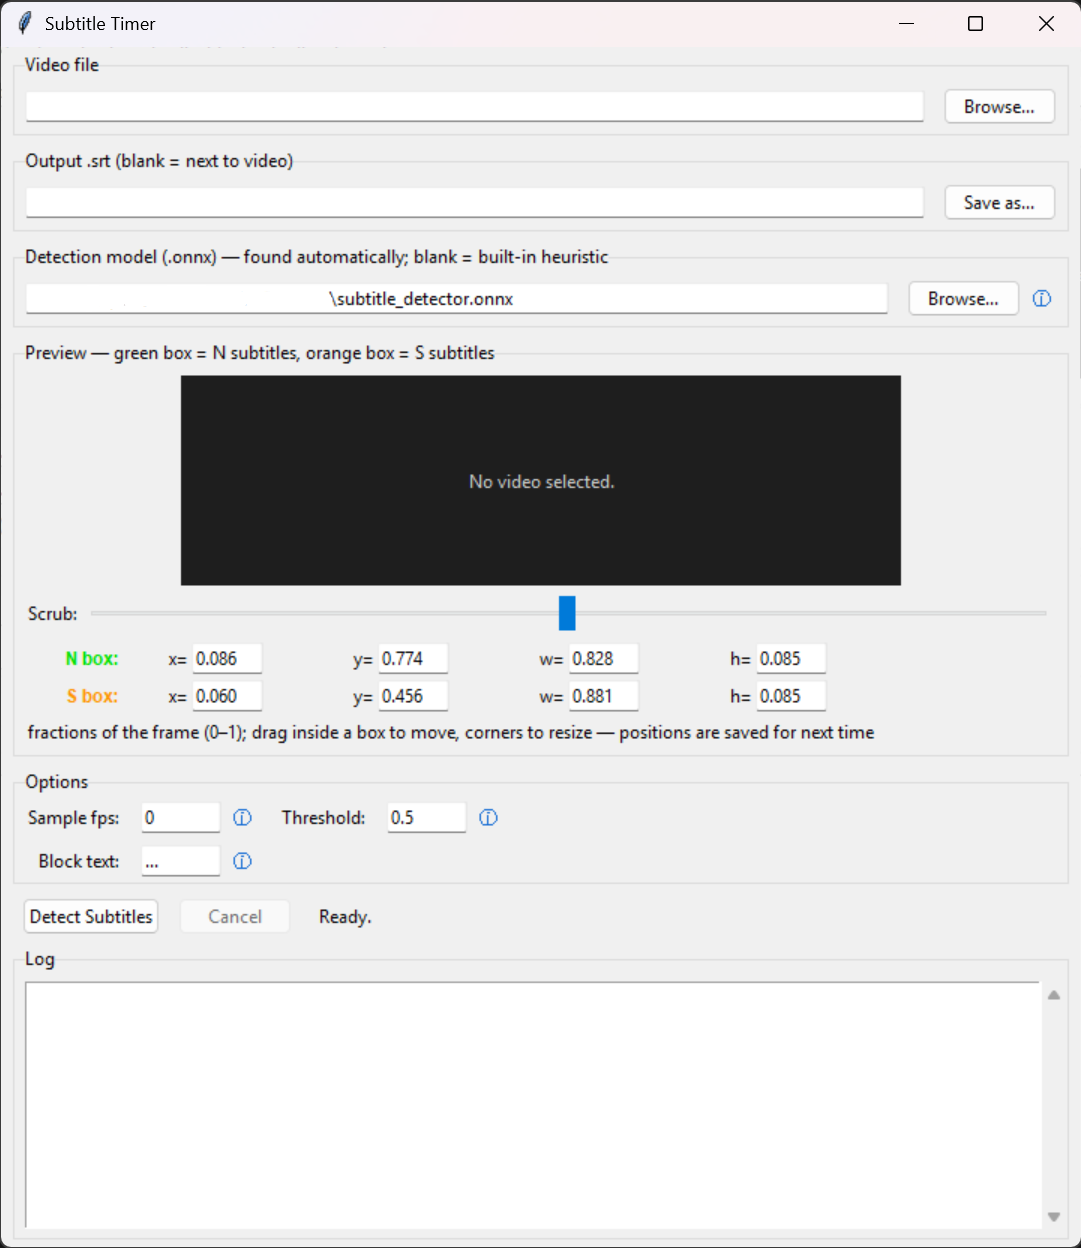
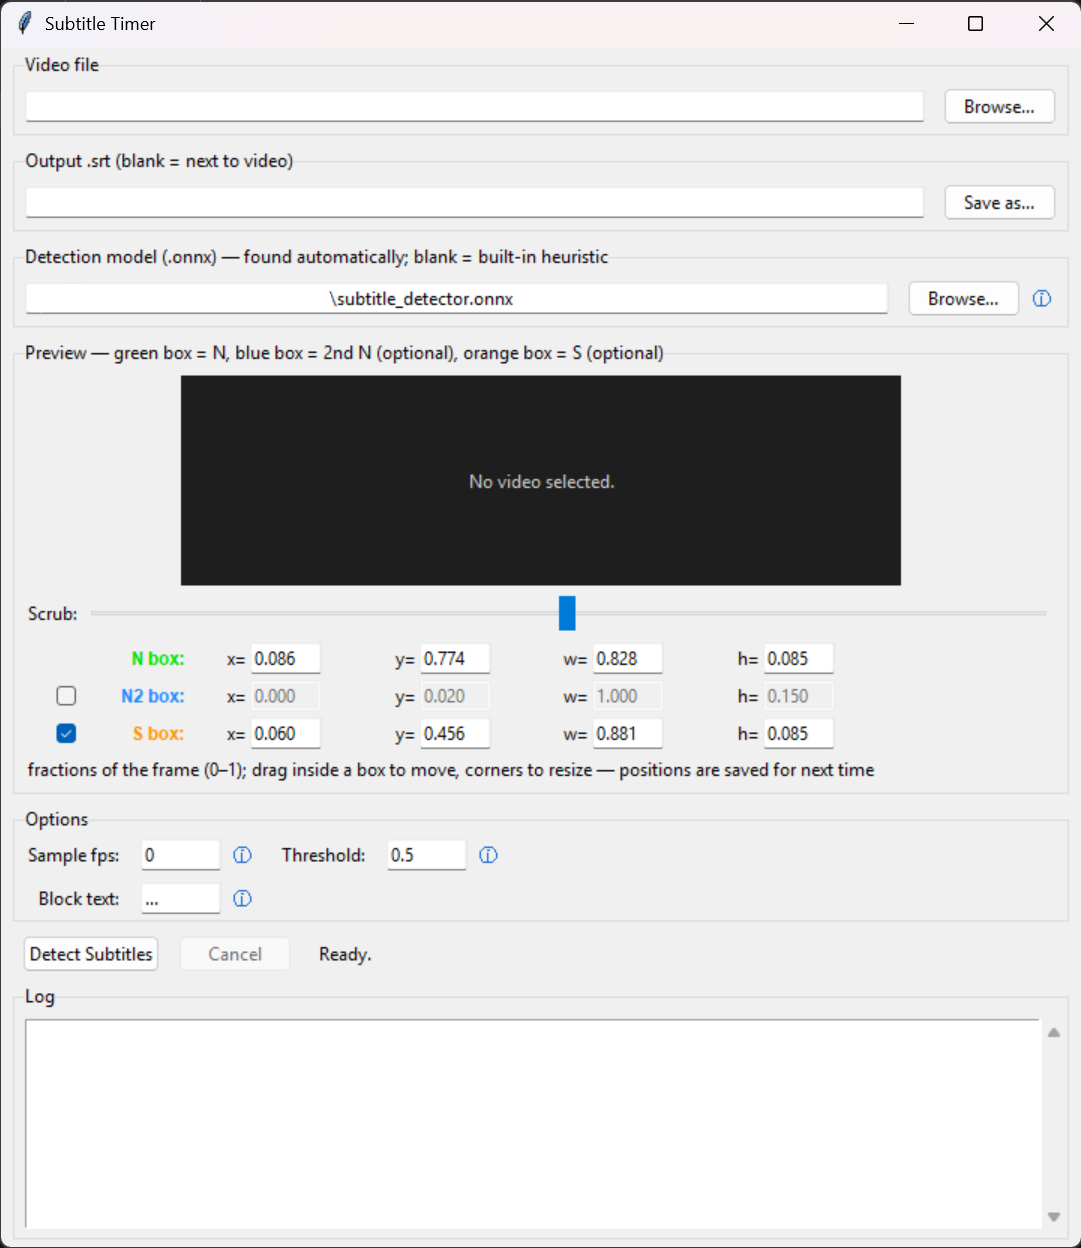
Add files via upload

Changed region(s): [[0.0, 0.5, 0.9769, 0.8125], [0.2137, 0.2812, 0.6105, 0.3125], [0.3663, 0.6562, 0.4579, 0.6875]]

diff --git a/index.html b/index.html
@@ -279,7 +279,7 @@
   <div class="wrap">
     <div class="section-head">
       <h2>Selected work</h2>
-      <p>Three projects, three different problem spaces: a production web platform, a computer-vision desktop tool, and a clinical management system.</p>
+      <p>Four projects, four different problem spaces: a production web platform, a computer-vision desktop tool, a real-time multiplayer game, and a clinical management system.</p>
     </div>
 
     <!-- ---------- Jadwel ---------- -->
@@ -343,6 +343,12 @@
           <li>Python</li><li>PyTorch</li><li>ONNX</li><li>OpenCV</li>
           <li>Tkinter</li><li>PyInstaller</li>
         </ul>
+        <div class="links">
+          <a href="https://github.com/Mhmad627/Subtitle-Timer" target="_blank" rel="noopener">
+            <svg viewBox="0 0 24 24" fill="none" stroke="currentColor" stroke-width="2" stroke-linecap="round" stroke-linejoin="round"><path d="M16 18l6-6-6-6"/><path d="M8 6l-6 6 6 6"/></svg>
+            View on GitHub
+          </a>
+        </div>
       </aside>
       <div class="body">
         <img class="shot tall" src="images/subtitle-timer.png" alt="Subtitle Timer window with the video preview, crop-box controls, and detection options">
@@ -353,8 +359,9 @@
         </p>
         <p>
           Instead of OCR or speech recognition, it uses a small CNN I trained from scratch to classify every sampled frame as
-          no subtitle, normal style, or special style. The user draws two crop boxes on a preview to mark where each style appears;
-          the classifications are grouped into timed blocks and written out as standard subtitles. Trained in PyTorch, exported to ONNX,
+          no subtitle, normal style, or special style. The user positions up to three independently-toggled crop boxes on a
+          preview — two for normal-style subtitles and one for a special stacked style — and a single pass classifies and times
+          all of them together, then writes the result out as a standard subtitle file. Trained in PyTorch, exported to ONNX,
           and run through OpenCV's DNN module so the packaged app has no PyTorch dependency.
         </p>
         <ul class="highlights">
@@ -364,15 +371,19 @@
           </li>
           <li>
             <b>The hard case</b>
-            <span>Two subtitles back-to-back with zero gap look like one long subtitle to a presence detector. A pixel-mask text-change detector in HSV space catches the glyphs changing and splits them correctly.</span>
+            <span>Two subtitles back-to-back with zero gap look like one long subtitle to a presence detector. A two-tier glyph mask — bright pixels near saturated color — catches the text changing even on low-saturation text, while ignoring noisy outlines that used to trigger false splits.</span>
           </li>
           <li>
             <b>Debugging a model</b>
             <span>Diagnosed a colour-invariance failure in the trained classifier and fixed it with targeted hue-rotation augmentation rather than collecting and labelling new data.</span>
           </li>
           <li>
+            <b>Automatic timing corrections</b>
+            <span>Two learned quirks are corrected automatically after detection: the special style's banner lags its true on-screen end by a fixed delay, and any block boundary landing on a frame-rounding edge case is nudged to stay frame-accurate — even where regions overlap and boundaries must move together.</span>
+          </li>
+          <li>
             <b>Real desktop app</b>
-            <span>Live video scrubbing, draggable and resizable overlays synced with numeric fields, background-threaded processing with cancellation so the UI never freezes, and a standalone <code>.exe</code> for non-technical users.</span>
+            <span>Live video scrubbing, draggable and resizable overlays synced with numeric fields and on/off toggles per region, auto-detection of the newest trained model, background-threaded processing with cancellation so the UI never freezes, and a standalone <code>.exe</code> for non-technical users.</span>
           </li>
         </ul>
       </div>
@@ -391,6 +402,10 @@
           <a href="https://mhmdalmarzooq-001-site1.ktempurl.com" target="_blank" rel="noopener">
             <svg viewBox="0 0 24 24" fill="none" stroke="currentColor" stroke-width="2" stroke-linecap="round" stroke-linejoin="round"><path d="M18 13v6a2 2 0 0 1-2 2H5a2 2 0 0 1-2-2V8a2 2 0 0 1 2-2h6"/><path d="M15 3h6v6"/><path d="M10 14L21 3"/></svg>
             View live website
+          </a>
+          <a href="https://github.com/Mhmad627/ClinicCare" target="_blank" rel="noopener">
+            <svg viewBox="0 0 24 24" fill="none" stroke="currentColor" stroke-width="2" stroke-linecap="round" stroke-linejoin="round"><path d="M16 18l6-6-6-6"/><path d="M8 6l-6 6 6 6"/></svg>
+            View on GitHub
           </a>
         </div>
       </aside>
@@ -417,6 +432,61 @@
           <li>
             <b>Quality</b>
             <span>Wrote a 55-check automated regression suite and deployed the application live to a production host.</span>
+          </li>
+        </ul>
+      </div>
+    </article>
+
+    <!-- ---------- UNO Online ---------- -->
+    <article class="project">
+      <aside>
+        <h3>UNO Online</h3>
+        <p class="role">Personal project · Full-stack, real-time</p>
+        <p class="period">2026</p>
+        <ul class="stack">
+          <li>Node.js</li><li>Raw WebSocket protocol</li><li>Docker</li><li>Hugging Face Spaces</li>
+        </ul>
+        <div class="links">
+          <a href="https://hamody627-uno.hf.space/" target="_blank" rel="noopener">
+            <svg viewBox="0 0 24 24" fill="none" stroke="currentColor" stroke-width="2" stroke-linecap="round" stroke-linejoin="round"><path d="M18 13v6a2 2 0 0 1-2 2H5a2 2 0 0 1-2-2V8a2 2 0 0 1 2-2h6"/><path d="M15 3h6v6"/><path d="M10 14L21 3"/></svg>
+            Play live
+          </a>
+          <a href="https://github.com/Mhmad627/UNO" target="_blank" rel="noopener">
+            <svg viewBox="0 0 24 24" fill="none" stroke="currentColor" stroke-width="2" stroke-linecap="round" stroke-linejoin="round"><path d="M16 18l6-6-6-6"/><path d="M8 6l-6 6 6 6"/></svg>
+            View on GitHub
+          </a>
+        </div>
+      </aside>
+      <div class="body">
+        <img class="shot" src="images/UNO.png" alt="UNO Online game room in progress">
+
+        <p class="summary">
+          A full multiplayer UNO game for up to 15 players per room, playable in any browser with nothing to
+          install — built entirely on Node.js's built-in <code>http</code> module and deployed as a Docker
+          container on Hugging Face Spaces.
+        </p>
+        <p>
+          One player creates a room and gets a 6-letter code; everyone else joins with it and the host starts
+          the game once at least two people are seated. The full rule set is implemented — number cards, Skip,
+          Reverse, Draw Two, Wild and Wild Draw Four, draw stacking, UNO callouts with a catch window — plus a
+          rematch flow with a running win scoreboard.
+        </p>
+        <ul class="highlights">
+          <li>
+            <b>Zero dependencies</b>
+            <span><code>package.json</code> lists no runtime dependencies at all — the WebSocket handshake, frame parsing, and keepalive ping/pong are hand-implemented over Node's raw <code>http</code> module instead of pulling in a library.</span>
+          </li>
+          <li>
+            <b>Reconnect-proof state</b>
+            <span>Each player is tracked by a stable public id and a secret token, kept separate from their transient socket connection, so refreshing the page, losing Wi-Fi, or locking the phone reclaims the same seat and hand instead of ending the game.</span>
+          </li>
+          <li>
+            <b>Graceful disconnect handling</b>
+            <span>A disconnected player's turn auto-passes after 20 seconds instead of stalling the table for everyone else; a disconnected host gets a 60-second grace period before the room closes, so one dropped connection doesn't end the game.</span>
+          </li>
+          <li>
+            <b>Shippable anywhere</b>
+            <span>Runs with a single <code>node server.js</code> locally, or as a Docker image behind Hugging Face Spaces' proxy — including the periodic pings needed to keep the proxy from dropping idle sockets.</span>
           </li>
         </ul>
       </div>
